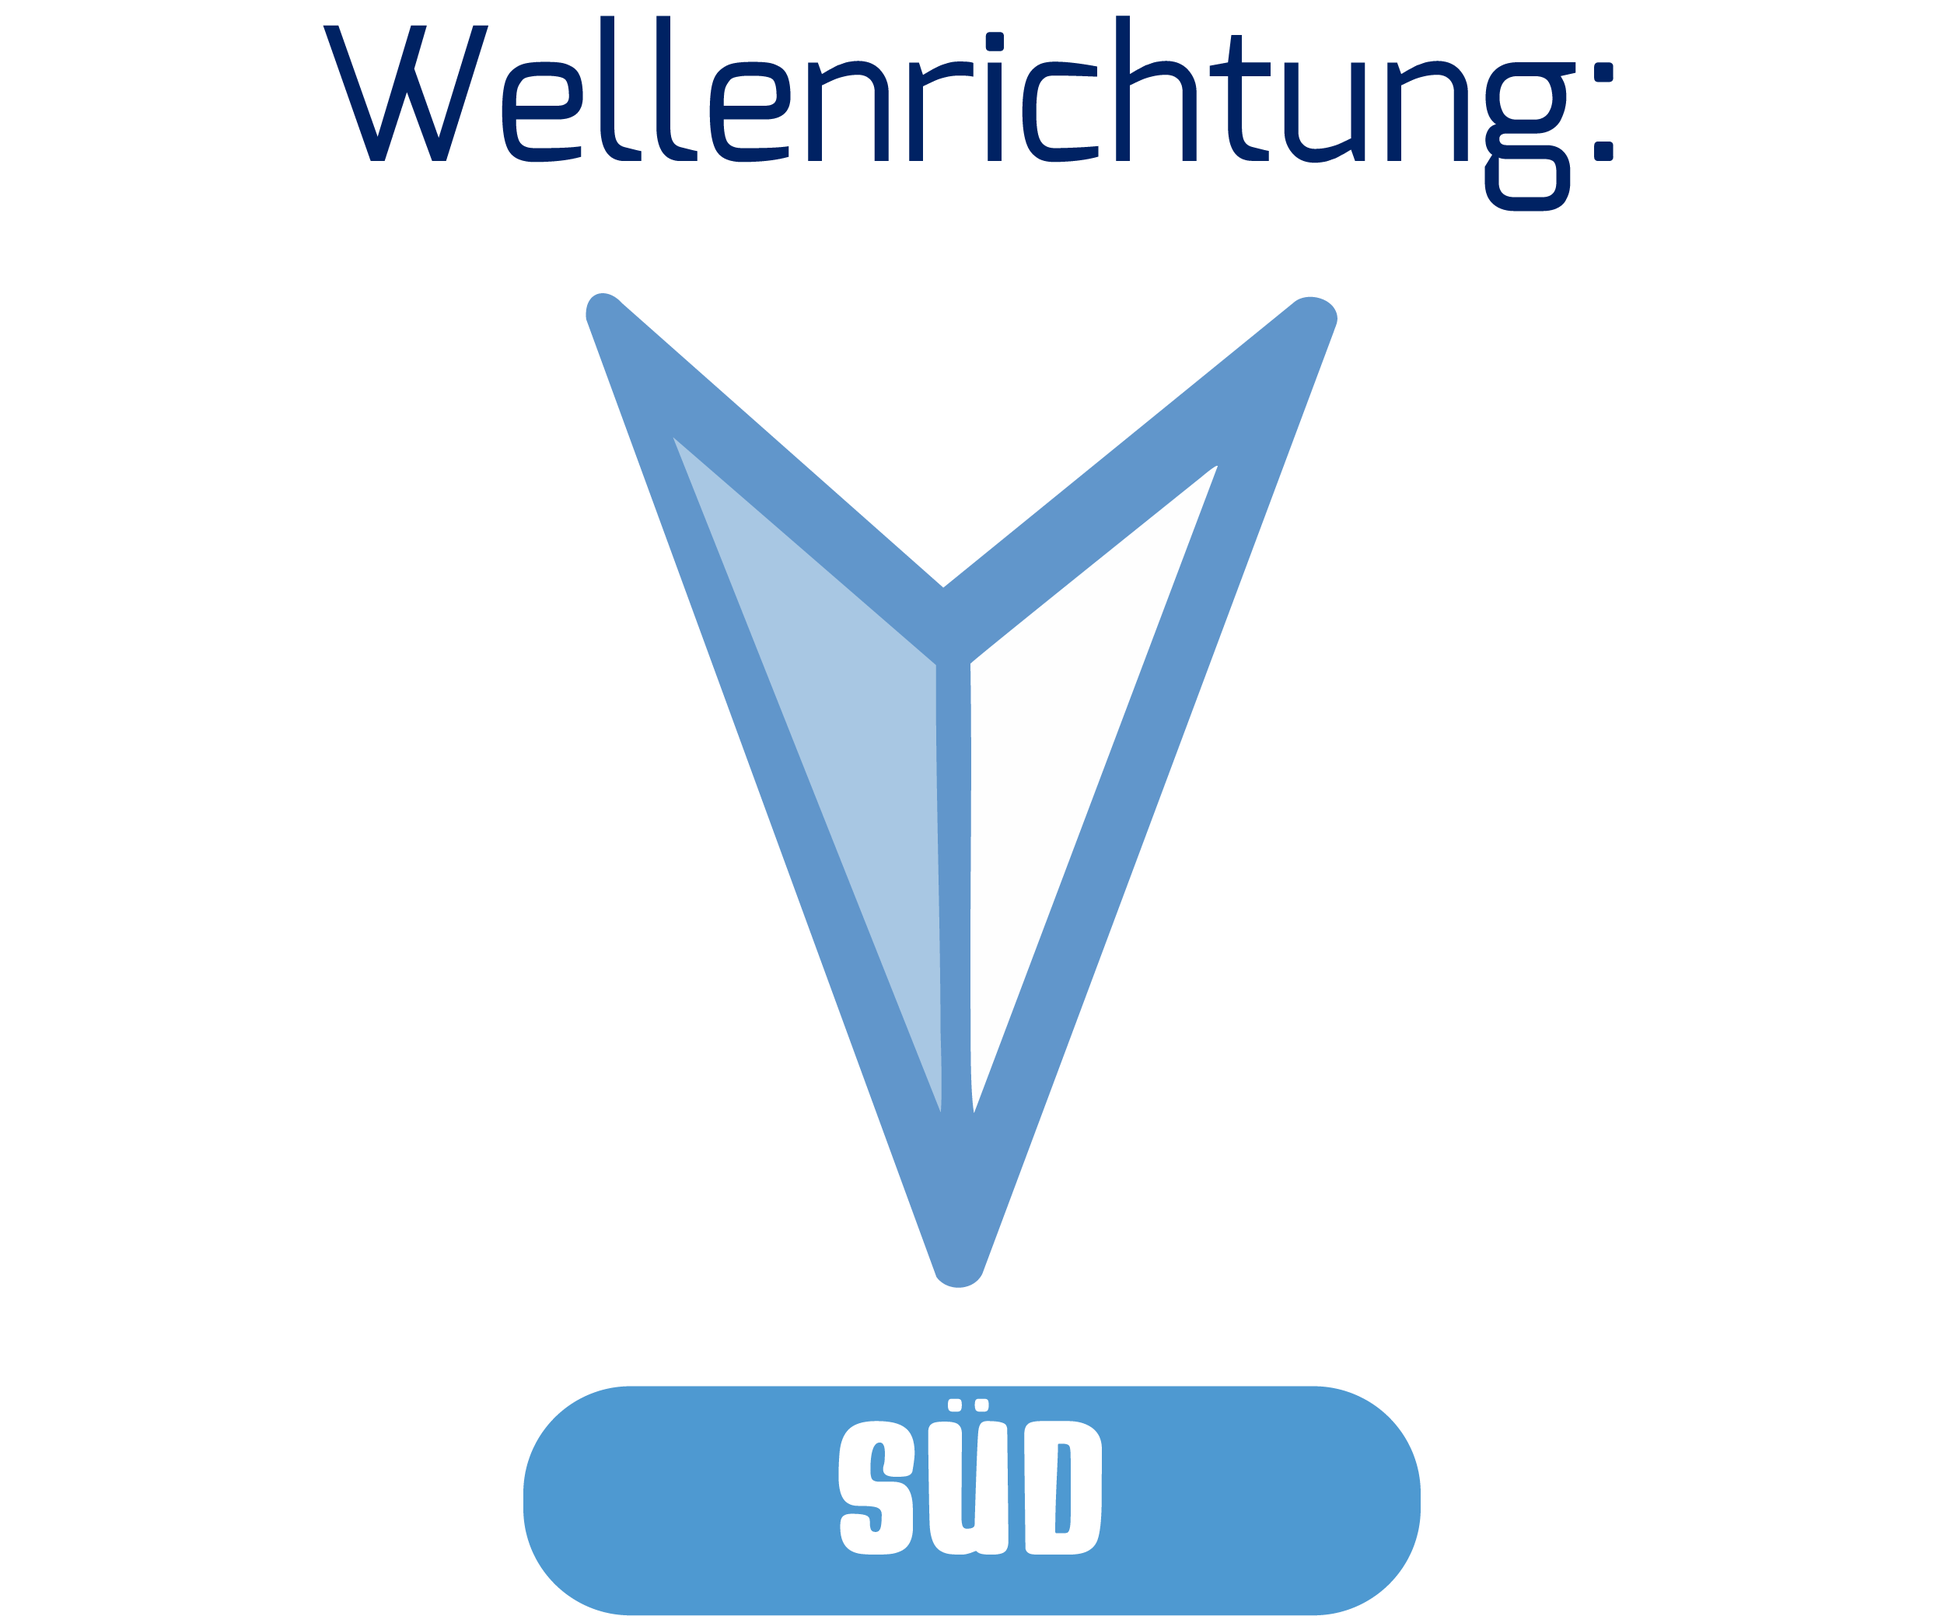
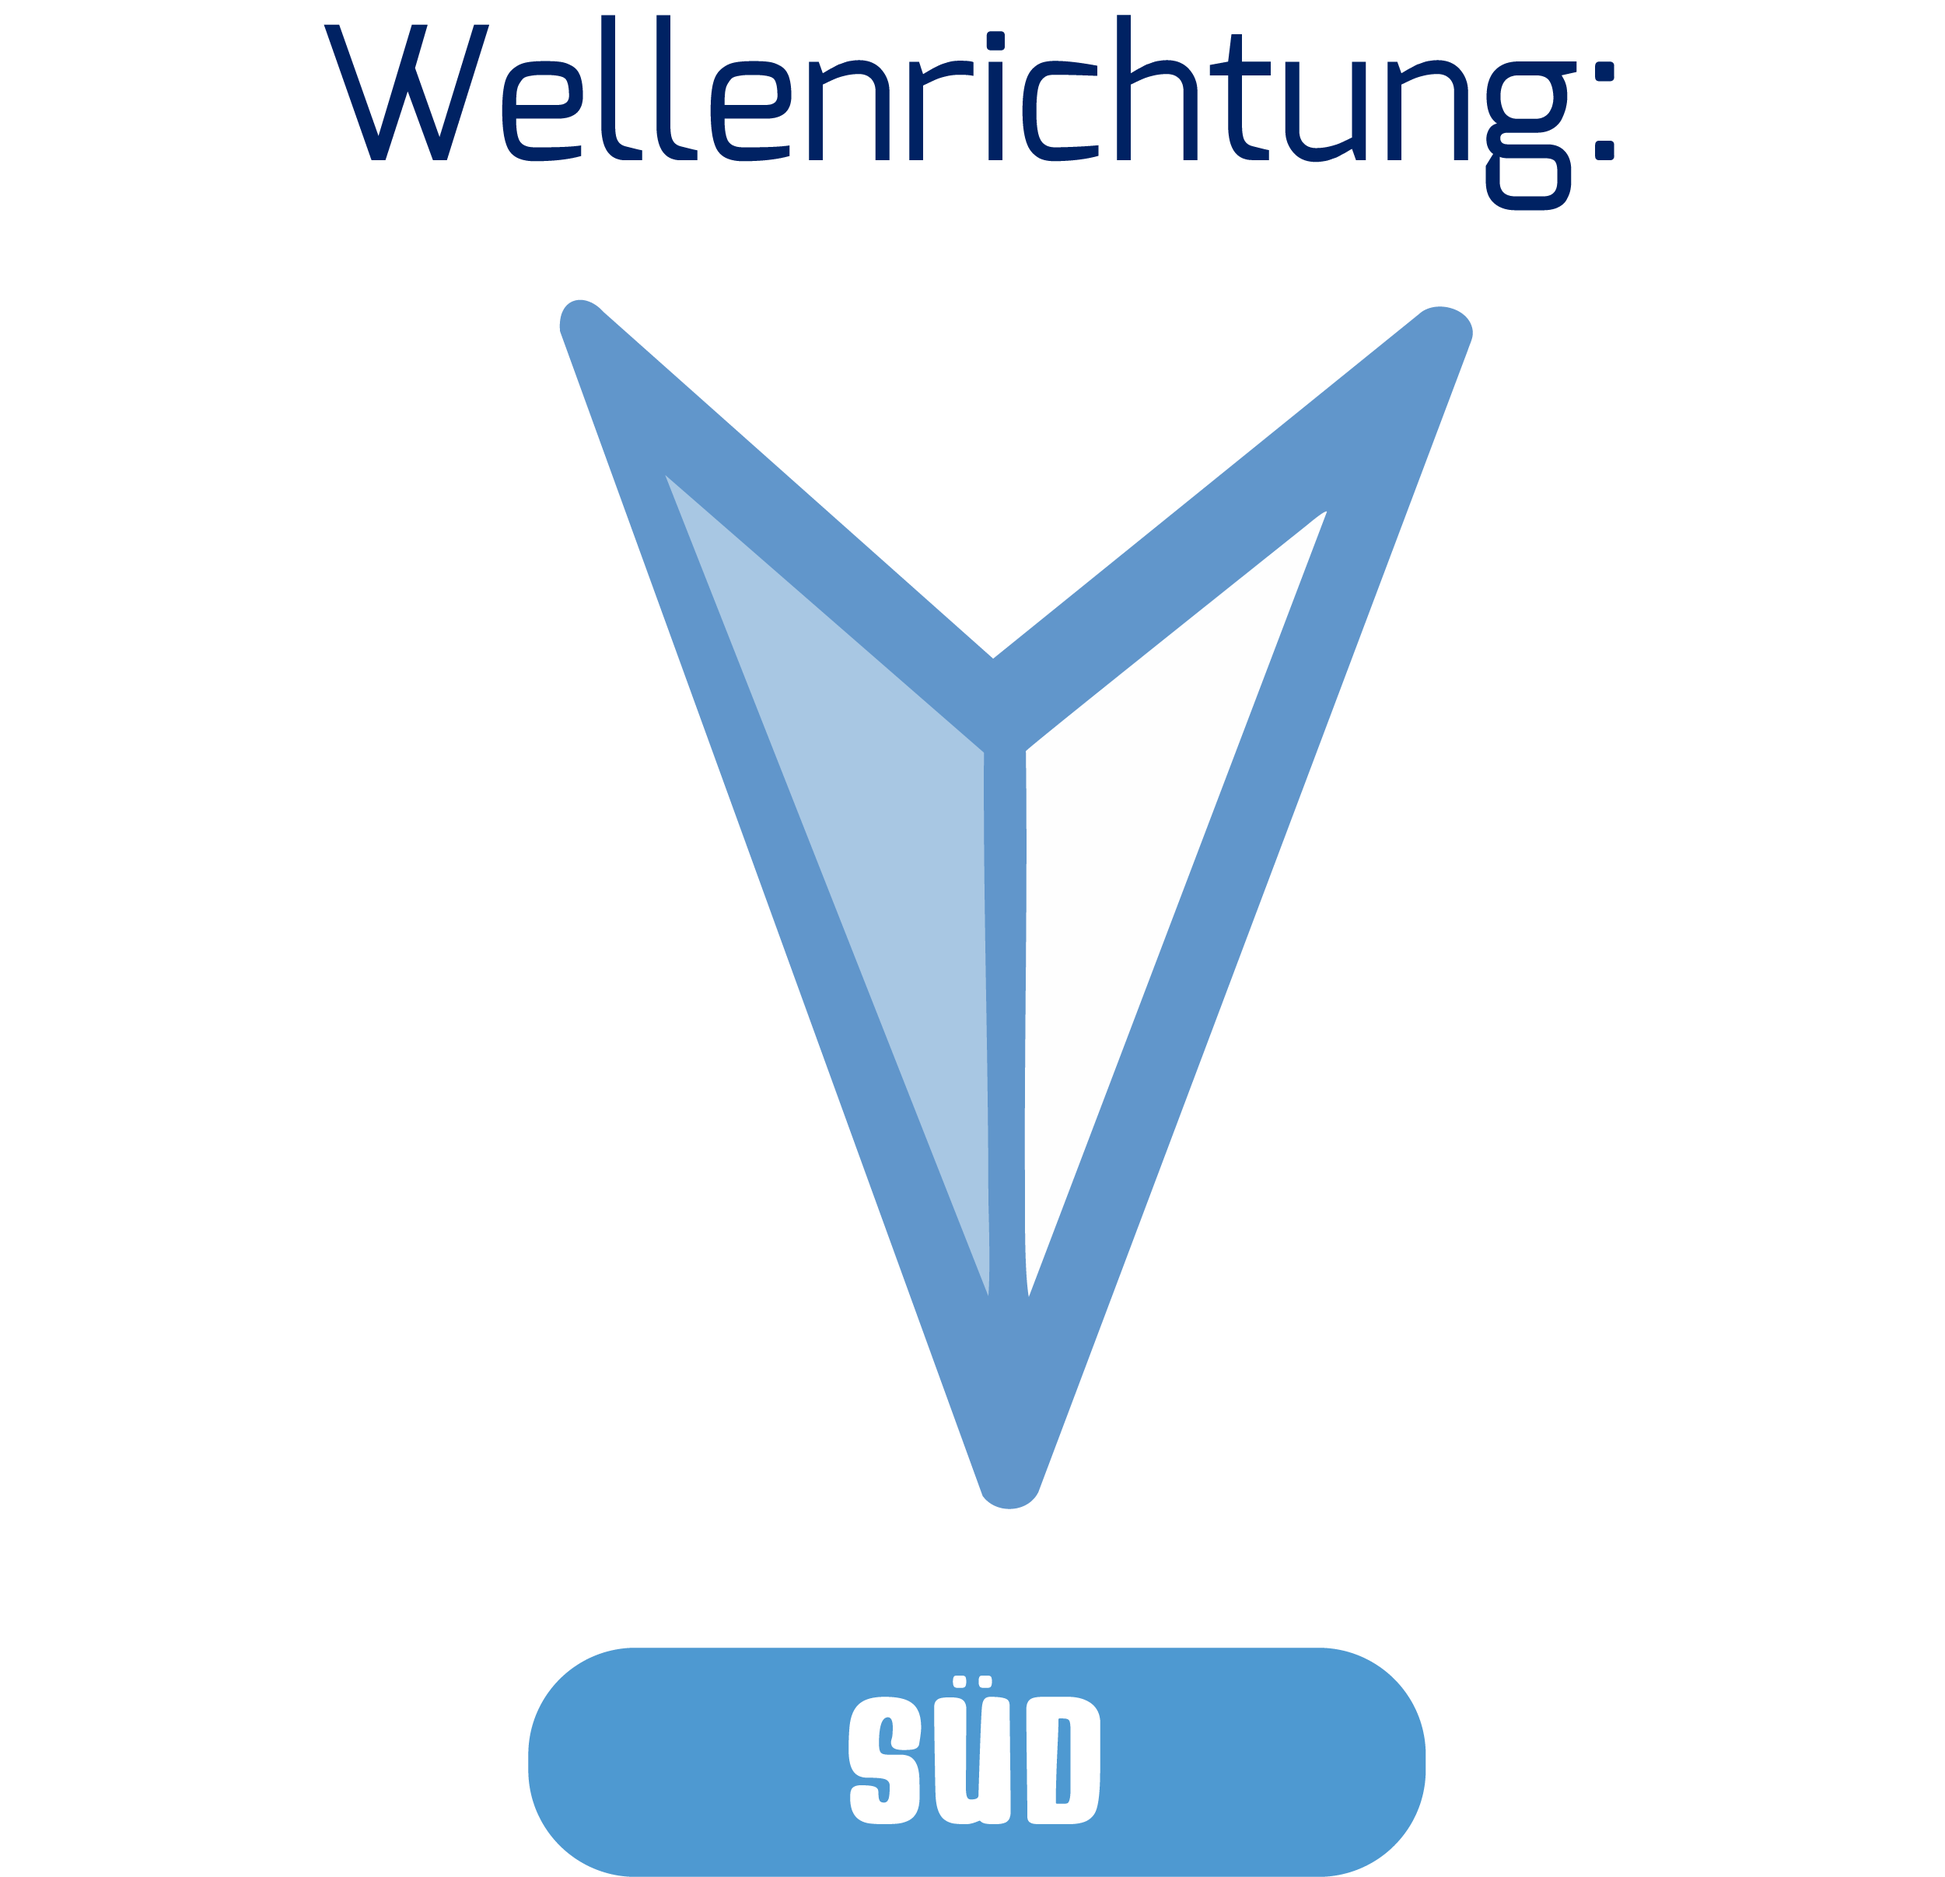
pfeile update

diff --git a/styles.css b/styles.css
@@ -96,8 +96,9 @@
     position: absolute;
     height: 210px;
     width: auto;
-    margin-top: 113px;
-    margin-right: 870px;
+    margin-top: 89px;
+    margin-right: 864px;
+    transform: rotate(2.5deg);
   }
 
   .map {
@@ -166,7 +167,7 @@
 /* Info-Box */
 .info-box {
   position: absolute;
-  width: 370px;
+  width: 400px;
   min-height: 450px;
   max-height: 500px;
   height: 100%;
@@ -232,10 +233,9 @@
 }
 .wind-image {
   margin-top: -25px;
-  height: 75px;
+  height: 150px;
   width: auto;
   display: block;
-  margin-top: 25px;
 }
 
 .bildpfeil{
